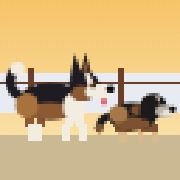
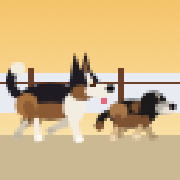
Patas articuladas al correr y pose de agachada real
Claude-Session: https://claude.ai/code/session_01MfGWskP1aoSAGPJyqTPNTu

diff --git a/index.html b/index.html
@@ -80,7 +80,7 @@ let W = 320;                   // ancho lógico, se ajusta a la pantalla
 const GROUND = 128;            // línea del suelo
 const G = 950;                 // gravedad
 const DOGS = {
-  camila:{name:"Camila", w:20, h:15, dh:10, jump:300, draw:drawCamila},
+  camila:{name:"Camila", w:20, h:15, dh:11, jump:300, draw:drawCamila},
   lizy:  {name:"Lizy",   w:30, h:25, dh:15, jump:345, draw:drawLizy}
 };
 const REC_KEY = "camila-lizy-records";
@@ -230,77 +230,115 @@ function ell(c, x, y, rx, ry, col, rot=0){ c.fillStyle=col; c.beginPath(); c.ell
 function rect(c, x, y, w, h, col){ c.fillStyle=col; c.fillRect(Math.round(x),Math.round(y),Math.round(w),Math.round(h)); }
 function poly(c, pts, col){ c.fillStyle=col; c.beginPath(); c.moveTo(pts[0],pts[1]); for(let i=2;i<pts.length;i+=2) c.lineTo(pts[i],pts[i+1]); c.closePath(); c.fill(); }
 
+// ---------- Patas articuladas ----------
+// Ángulos medidos desde la vertical; positivo = hacia adelante. Cada pata tiene muslo, canilla y pie.
+function seg(c, x1, y1, x2, y2, w, col){ c.strokeStyle=col; c.lineWidth=w; c.lineCap="round"; c.beginPath(); c.moveTo(x1,y1); c.lineTo(x2,y2); c.stroke(); }
+function leg(c, hx, hy, L1, L2, a, b, w1, w2, c1, c2, paw){
+  const kx = hx + Math.sin(a)*L1, ky = hy + Math.cos(a)*L1;
+  const px = kx + Math.sin(a+b)*L2, py = ky + Math.cos(a+b)*L2;
+  seg(c, hx, hy, kx, ky, w1, c1); seg(c, kx, ky, px, py, w2, c2);
+  ell(c, px + 0.6, py - 0.2, w2*0.62, w2*0.42, paw);
+}
+// Ciclo de galope: apoyo (la pata va de adelante hacia atrás, recta) y vuelo (se dobla y vuelve adelante)
+function gait(p, front){
+  p = ((p % 1) + 1) % 1;
+  if(p < 0.55){ const u = p/0.55; return front ? [0.5 - 1.05*u, 0] : [0.55 - 1.0*u, -0.45 + 0.25*u]; }
+  const u = (p-0.55)/0.45, s = Math.sin(Math.PI*u);
+  return front ? [-0.55 + 1.05*u + 0.25*s, -1.5*s] : [-0.45 + 1.0*u, -0.2 - 1.2*s];
+}
+function legPose(st, t, phase, front){
+  if(st==="run") return gait(t*3.4 + phase, front);
+  if(st==="air") return front ? [0.95, -0.9] : [-0.9, 0.5];          // en el aire: patas estiradas
+  if(st==="duck") return front ? [1.25, -2.3] : [0.9, -2.1];         // agachada: patas recogidas
+  return front ? [0.05, 0] : [0.25, -0.35];
+}
+
 // Lizy: grande, lomo negro, mejillas cafés, franja blanca en la cara, pecho y patas blancas, cola enroscada con punta blanca
 function drawLizy(c, x, y, t, st){
   const K="#1f1b22", B="#8b5a33", Bl="#a8723f", Wt="#f3ede1", N="#0d0b0e";
-  const run = st==="run", duck = st==="duck", air = st==="air";
-  const ph = run ? Math.sin(t*22) : 0;
+  const run = st==="run", duck = st==="duck";
+  const cyc = t*3.4, bounce = run ? Math.abs(Math.sin(cyc*Math.PI))*1.6 : 0;
+  const drop = duck ? 7 : 0;
   c.save(); c.translate(x, y);
-  if(duck){ c.translate(0, 0); c.scale(1.08, .62); }
-  // patas traseras y delanteras
-  const legs = [[5, ph], [9, -ph], [19, -ph], [23, ph]];
-  legs.forEach(([lx,p],i)=>{
-    const dx = air ? (i<2?-2:2) : p*2.5, lift = air ? 2 : Math.max(0,p)*1.5*(i%2?1:-1);
-    rect(c, lx+dx*.4, -10, 3.2, 5, i<2?B:Wt);
-    rect(c, lx+dx, -6 - (lift>0?lift:0), 3, 6, Wt);
-  });
-  // cola
-  c.strokeStyle=K; c.lineWidth=3.2; c.lineCap="round"; c.beginPath(); c.moveTo(4,-15); c.quadraticCurveTo(-3,-19,1,-25); c.stroke();
-  ell(c, 2.2, -25.5, 2.6, 2.4, Wt);
-  // cuerpo
-  ell(c, 14, -14, 11.5, 6.5, K);
-  ell(c, 14, -10.5, 9, 3, B);
-  ell(c, 5.5, -12.5, 4, 4.5, Bl);
-  ell(c, 22.5, -12, 4.2, 5.5, Wt);
-  // cabeza
-  const hb = run ? Math.sin(t*22)*.6 : 0;
-  c.translate(0, hb);
-  poly(c, [21,-22, 22.5,-31, 25.5,-23], K);          // oreja de atrás
-  poly(c, [24,-22, 26.5,-31.5, 29,-22], K);          // oreja de adelante
-  poly(c, [25.2,-23.5, 26.5,-29, 27.8,-23.5], B);
+  const by = -14 + drop - bounce;                 // centro del cuerpo
+  const hipB = [6, by+2], hipF = [21, by+2];
+  const L1 = duck ? 5 : 6, L2 = duck ? 5 : 6;
+  // patas del lado lejano (más oscuras)
+  let [a,b] = legPose(st, t, .5, false); leg(c, hipB[0]+1.5, hipB[1], L1, L2, a, b, 3.4, 2.4, "#6d4527", "#cfc6b6", "#bdb3a2");
+  [a,b] = legPose(st, t, .62, true);   leg(c, hipF[0]-1, hipF[1], L1, L2, a, b, 3.2, 2.4, "#cfc6b6", "#cfc6b6", "#bdb3a2");
+  // cola: enroscada; agachada queda más baja
+  c.strokeStyle=K; c.lineWidth=3.2; c.lineCap="round"; c.beginPath();
+  const tw = run ? Math.sin(cyc*Math.PI*2)*1.2 : 0;
+  if(duck){ c.moveTo(4, by-1); c.quadraticCurveTo(-3, by-3, -2, by-8); } else { c.moveTo(4, by-1); c.quadraticCurveTo(-3+tw, by-5, 1+tw, by-11); }
+  c.stroke(); ell(c, duck ? -1.8 : 2.2+tw, duck ? by-8.5 : by-11.5, 2.6, 2.4, Wt);
+  // cuerpo (se estira un poco al correr)
+  const stretch = run ? Math.sin(cyc*Math.PI*2)*.8 : 0;
+  ell(c, 14, by, 11.5 + stretch, duck ? 5.5 : 6.5, K);
+  ell(c, 14, by+3.5, 9, 3, B);
+  ell(c, 5.5, by+1.5, 4, 4.5, Bl);
+  ell(c, 22.5, by+2, 4.2, 5.5, Wt);
+  // patas del lado cercano
+  [a,b] = legPose(st, t, 0, false); leg(c, hipB[0], hipB[1], L1, L2, a, b, 3.8, 2.6, B, Wt, "#fffaf0");
+  [a,b] = legPose(st, t, .12, true); leg(c, hipF[0], hipF[1], L1, L2, a, b, 3.4, 2.6, Wt, Wt, "#fffaf0");
+  // cabeza: agachada va más baja y estirada hacia adelante, orejas hacia atrás
+  const hb = run ? Math.sin(cyc*Math.PI*2)*.6 : 0;
+  const hx = duck ? 3 : 0, hy = (duck ? 9 : 0) + hb + (by + 14);
+  c.translate(hx, hy);
+  if(duck){
+    poly(c, [22,-22.5, 18,-26, 24.5,-23.5], K);       // orejas echadas hacia atrás
+    poly(c, [24,-23, 20.5,-27, 27,-23.5], K);
+    poly(c, [23.5,-23.5, 21.5,-25.5, 25.5,-23.8], B);
+  } else {
+    poly(c, [21,-22, 22.5,-31, 25.5,-23], K);
+    poly(c, [24,-22, 26.5,-31.5, 29,-22], K);
+    poly(c, [25.2,-23.5, 26.5,-29, 27.8,-23.5], B);
+  }
   ell(c, 26, -19.5, 5.6, 5, K);
   ell(c, 25, -17, 3.6, 2.8, B);
-  ell(c, 31, -17.6, 4.6, 2.6, Wt);                   // hocico
-  poly(c, [26.2,-24.2, 27.6,-24.2, 30,-19.5, 27.5,-19], Wt); // franja blanca
-  ell(c, 35.2, -18.4, 1.5, 1.3, N);                  // nariz
-  rect(c, 27.6, -21.2, 1.6, 1.6, "#4a2a12");         // ojo
+  ell(c, 31, -17.6, 4.6, 2.6, Wt);
+  poly(c, [26.2,-24.2, 27.6,-24.2, 30,-19.5, 27.5,-19], Wt);
+  ell(c, 35.2, -18.4, 1.5, 1.3, N);
+  rect(c, 27.6, -21.2, 1.6, 1.6, "#4a2a12");
   rect(c, 28, -21.2, .7, .7, "#ffd9a8");
-  if(run && ph>0.3){ rect(c, 31.5, -15.4, 2.2, 2.4, "#e5677a"); }
+  if(run && Math.sin(cyc*Math.PI*2) > 0){ rect(c, 31.5, -15.4, 2.2, 2.4, "#e5677a"); }
   c.restore();
 }
 
 // Camila: chiquita, negra con café, hocico canoso, orejas caídas, patas color crema
 function drawCamila(c, x, y, t, st){
-  const K="#1d1a1c", B="#7d5232", Bt="#a77748", G="#b9b2a6", Wt="#e9e3d6", N="#0d0b0e";
-  const run = st==="run", duck = st==="duck", air = st==="air";
-  const ph = run ? Math.sin(t*26) : 0;
+  const K="#1d1a1c", B="#7d5232", Bt="#a77748", G="#b9b2a6", Wt="#e9e3d6", N="#0d0b0e", Pw="#d8b98c";
+  const run = st==="run", duck = st==="duck";
+  const tt = t*1.15, cyc = tt*3.4, bounce = run ? Math.abs(Math.sin(cyc*Math.PI))*1.1 : 0;   // patas cortas: pasos más rápidos
+  const drop = duck ? 4 : 0;
   c.save(); c.translate(x, y);
-  if(duck){ c.scale(1.1, .68); }
-  const legs = [[3, ph], [6, -ph], [12, -ph], [15, ph]];
-  legs.forEach(([lx,p],i)=>{
-    const dx = air ? (i<2?-1.5:1.5) : p*2;
-    rect(c, lx+dx*.4, -6, 2.6, 3, B);
-    rect(c, lx+dx, -3.5, 2.4, 3.5, "#d8b98c");
-  });
-  // cola peluda
-  c.strokeStyle=K; c.lineWidth=2.6; c.lineCap="round"; c.beginPath(); c.moveTo(2.5,-9); c.quadraticCurveTo(-2,-9,-3,-5 + ph*1.2); c.stroke();
-  ell(c, -2.6, -5 + ph*1.2, 1.6, 1.8, B);
+  const by = -8.5 + drop - bounce;
+  const hipB = [4, by+1.5], hipF = [13.5, by+1.5];
+  const L1 = duck ? 3.4 : 3.8, L2 = duck ? 3.2 : 3.8;
+  let [a,b] = legPose(st, tt, .5, false); leg(c, hipB[0]+1, hipB[1], L1, L2, a, b, 2.6, 2, "#5d3c24", "#b89c74", "#a88f6c");
+  [a,b] = legPose(st, tt, .62, true);   leg(c, hipF[0]-1, hipF[1], L1, L2, a, b, 2.4, 2, "#5d3c24", "#b89c74", "#a88f6c");
+  // cola peluda que se mueve
+  const tw = run ? Math.sin(cyc*Math.PI*2)*1.4 : 0;
+  c.strokeStyle=K; c.lineWidth=2.6; c.lineCap="round"; c.beginPath(); c.moveTo(2.5, by-.5); c.quadraticCurveTo(-2, by-.5, -3, by+3.5+tw); c.stroke();
+  ell(c, -2.6, by+3.5+tw, 1.6, 1.8, B);
   // cuerpo
-  ell(c, 9, -8.5, 8.5, 5, K);
-  ell(c, 9, -6, 6.5, 2.4, B);
-  ell(c, 4, -9.5, 3.4, 3, Bt);
-  ell(c, 12, -11, 3.5, 2, B);
+  ell(c, 9, by, 8.5, duck ? 4.2 : 5, K);
+  ell(c, 9, by+2.5, 6.5, 2.4, B);
+  ell(c, 4, by-1, 3.4, 3, Bt);
+  ell(c, 12, by-2.5, 3.5, 2, B);
+  [a,b] = legPose(st, tt, 0, false);  leg(c, hipB[0], hipB[1], L1, L2, a, b, 2.8, 2.2, B, Pw, "#efdcb8");
+  [a,b] = legPose(st, tt, .12, true); leg(c, hipF[0], hipF[1], L1, L2, a, b, 2.6, 2.2, B, Pw, "#efdcb8");
   // cabeza
-  const hb = run ? Math.sin(t*26)*.5 : 0;
-  c.translate(0, hb);
+  const hb = run ? Math.sin(cyc*Math.PI*2)*.5 : 0;
+  c.translate(duck ? 2 : 0, (duck ? 5 : 0) + hb + (by + 8.5));
   ell(c, 16.5, -12.5, 4.8, 4.4, K);
-  ell(c, 20.4, -10.8, 3.3, 2.3, G);                  // hocico canoso
+  ell(c, 20.4, -10.8, 3.3, 2.3, G);
   ell(c, 21.5, -10, 2, 1.3, Wt);
-  ell(c, 23.4, -11.4, 1.3, 1.1, N);                  // nariz
-  ell(c, 13.6, -11.3, 1.9, 3.6, K, .25);             // oreja caída
-  rect(c, 17.6, -14.6, 1.4, 1.4, "#2a1a10");         // ojo
+  ell(c, 23.4, -11.4, 1.3, 1.1, N);
+  const flap = run ? Math.sin(cyc*Math.PI*2)*.25 : 0;
+  ell(c, 13.6, -11.3, 1.9, 3.6, K, .25 + flap + (duck ? .6 : 0));
+  rect(c, 17.6, -14.6, 1.4, 1.4, "#2a1a10");
   rect(c, 17.9, -14.6, .6, .6, "#e8d0b0");
-  rect(c, 17.2, -16.2, 2.4, .9, G);                  // cejas canosas
+  rect(c, 17.2, -16.2, 2.4, .9, G);
   c.restore();
 }
 
